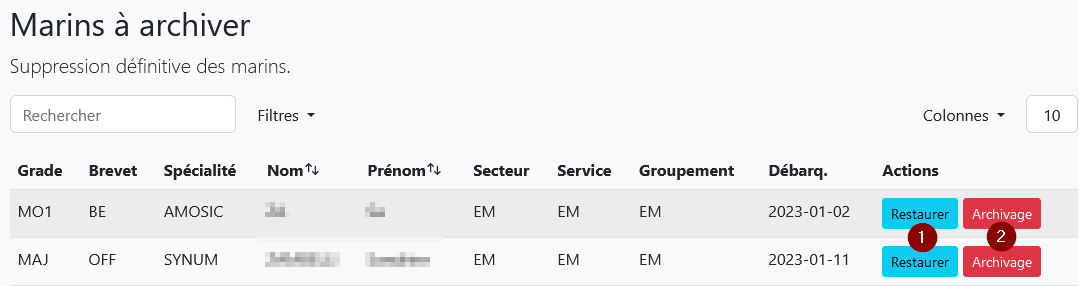
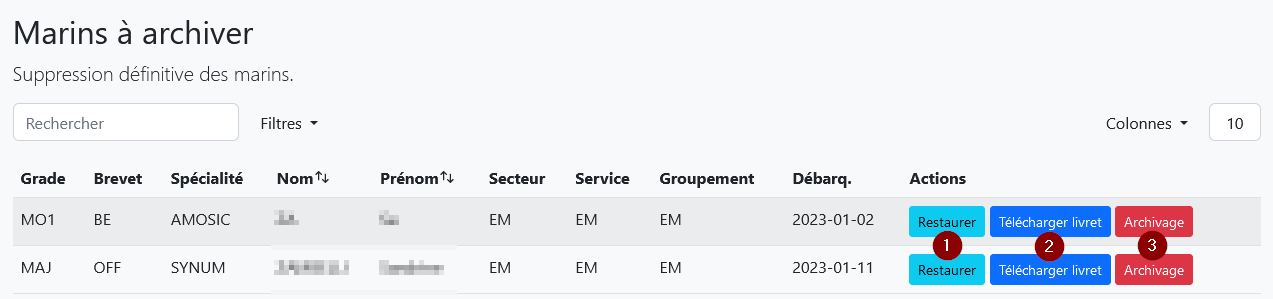
maj doc admin/archivage ajout bouton telecharg livret

diff --git a/app/resources/docs/1.0/administration.md b/app/resources/docs/1.0/administration.md
@@ -125,7 +125,8 @@ Cet écran va permettre d'archiver les marins. Vous y retrouvez :
 <img src="{{ url(asset('docs/images/' . env('DOC_VERSION') . '/administration/archivage.png' )) }}" width=1000px>
 
 Le bouton "Restaurer" (1) permet de rendre un utilisateur visible s'il a été supprimé dans l'écran "Fiches des marins".
-Le bouton "Archivage" (2) supprime l'utilisateur de la visualisation dans l'application. Son livret de transformation est sauvegardé sur le serveur et ses données enregistrées pour établir des statistiques.
+Le bouton "Télécharger livret" (2) permet d'obtenir le livret du marin au format pdf pour une sauvegarde en local.
+Le bouton "Archivage" (3) supprime l'utilisateur de la visualisation dans l'application. Son livret de transformation est sauvegardé sur le serveur et ses données enregistrées pour établir des statistiques.
 
 <a name="mails">
 ## Mails
